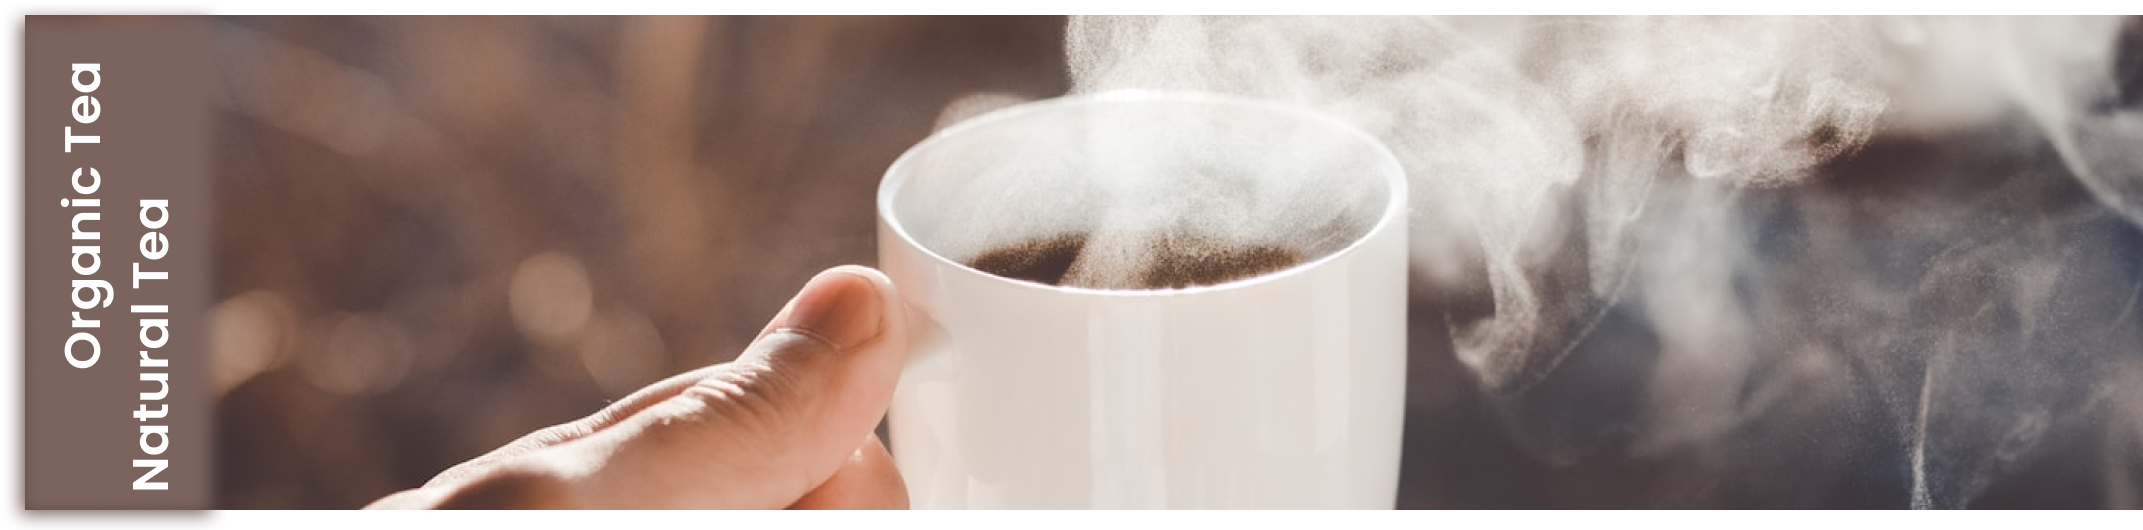
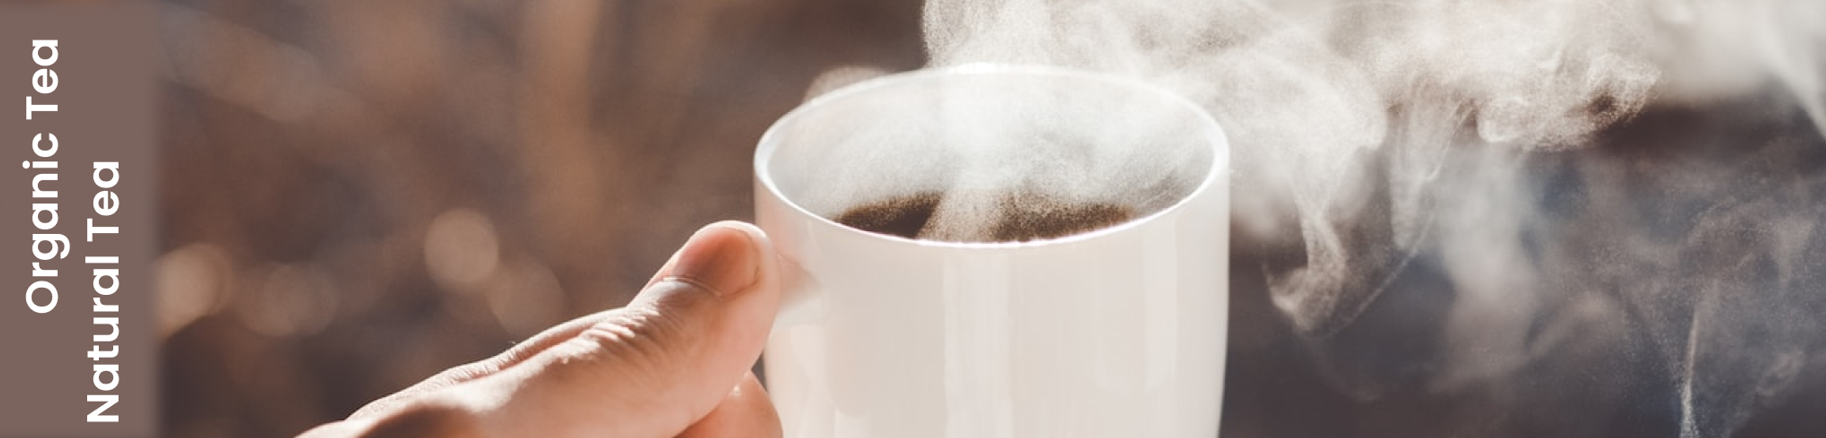
Updated with health & certifications page

diff --git a/client/src/components/contents/HealthCertificationsContent.jsx b/client/src/components/contents/HealthCertificationsContent.jsx
@@ -1,0 +1,34 @@
+import React from 'react'
+import { Container, Image } from 'react-bootstrap'
+import hcProductImage from '../../assets/h&cProductImage.png'
+import certificationProductImage from '../../assets/certificationProductImage.png'
+import CarouselHealthCertification from '../carousels/CarouselHealthCertification'
+
+
+function HealthCertificationsContent() {
+    return <>
+        <CarouselHealthCertification/>
+
+        <Container>
+
+            <div className='healthBlock'>
+                <Image src={hcProductImage} height={400}/>
+                <div>
+                    <h4>HEALTH SECRETS OF ORGANIC TEA</h4>
+                    <p>Discover the numerous health benefits of our naturally extracted teas. Rich in antioxidants, they help combat free radicals, promoting overall well-being. Our teas support a healthy immune system, enhancing your body's natural defenses. With natural ingredients, they aid in digestion and improve gut health. Regular consumption can help reduce stress and anxiety, contributing to mental clarity. Our teas also assist in weight management by boosting metabolism. Enjoy a cup daily to hydrate and rejuvenate your skin from within. Embrace the natural path to a healthier you with every sip.</p>
+                </div>
+            </div>
+
+            <div className='certificationBlock'>
+                <div>
+                    <h4>CERTIFICATIONS</h4>
+                    <p>Our commitment to quality is reflected in our array of certifications. Our teas are organically certified, ensuring no harmful pesticides or chemicals are used. We adhere to the highest standards of food safety, with HACCP and ISO certifications guaranteeing meticulous processing. Fair Trade certification highlights our dedication to ethical sourcing, supporting sustainable practices and fair wages for farmers. Our teas are also certified GMO-free, maintaining the purity of our natural ingredients. Additionally, our products are cruelty-free and vegan certified. Trust in our certified excellence for a pure and ethical tea experience.</p>
+                </div>
+                <Image src={certificationProductImage} height={400}/>
+            </div>
+
+        </Container>
+    </>
+}
+
+export default HealthCertificationsContent

diff --git a/client/src/components/contents/HomeContent.jsx b/client/src/components/contents/HomeContent.jsx
@@ -2,10 +2,10 @@ import React from 'react'
 import { Container, Image } from 'react-bootstrap'
 import { FontAwesomeIcon } from '@fortawesome/react-fontawesome'
 import { faBoxesPacking, faCartFlatbed, faFileLines, faGlobe, faMedal, faMobileScreenButton } from '@fortawesome/free-solid-svg-icons'
-import CarouselHome from './CarouselHome'
-import teaMakingStep1 from '../assets/teaMakingStep1.png'
-import teaMakingStep2 from '../assets/teaMakingStep2.png'
-import teaMakingStep3 from '../assets/teaMakingStep3.png'
+import CarouselHome from '../carousels/CarouselHome'
+import teaMakingStep1 from '../../assets/teaMakingStep1.png'
+import teaMakingStep2 from '../../assets/teaMakingStep2.png'
+import teaMakingStep3 from '../../assets/teaMakingStep3.png'
 
 function HomeContent() {
 

diff --git a/client/src/index.css b/client/src/index.css
@@ -46,7 +46,7 @@
 @media screen and (min-width : 768px){
     .carouselImage{
         width: 100%;
-        height: 20rem;
+        height: 25rem;
     }
     .homeTextContent{
         display: flex;
@@ -67,10 +67,12 @@
     }
 }
 
+/* About Us */
+
 @media screen and (min-width : 768px){
     .aboutImage{
         width: 100%;
-        height: 300px;
+        height: 25rem;
     }
     .aboutContent{
         display: flex;
@@ -83,5 +85,15 @@
     .aboutRightContent{
         margin-left: 25%;
         margin-top: 5%;
+    }
+}
+
+/* Health & Certifications */
+
+@media screen and (min-width : 768px){
+    .healthBlock, .certificationBlock{
+        display: flex;
+        justify-content: center;
+        align-items: center;
     }
 }

diff --git a/client/src/components/carousels/CarouselHealthCertification.jsx b/client/src/components/carousels/CarouselHealthCertification.jsx
@@ -1,0 +1,20 @@
+import React from 'react'
+import { Carousel, Image } from 'react-bootstrap'
+import CarouselHealth from '../../assets/CarouselHealth.png'
+import CarouselCertification from '../../assets/CarouselCertification.png'
+
+function CarouselHealthCertification() {
+
+    return <>
+        <Carousel>
+            <Carousel.Item interval={2000}>
+                <Image className='carouselImage' src={CarouselHealth}/>
+            </Carousel.Item>
+            <Carousel.Item interval={2000}>
+                <Image className='carouselImage' src={CarouselCertification}/>
+            </Carousel.Item>
+        </Carousel>
+    </>
+}
+
+export default CarouselHealthCertification

diff --git a/client/src/components/carousels/CarouselHome.jsx b/client/src/components/carousels/CarouselHome.jsx
@@ -1,9 +1,9 @@
 import React from 'react'
 import { Carousel, Image } from 'react-bootstrap'
-import CarouselOne from '../assets/CarouselOne.png'
-import CarouselTwo from '../assets/CarouselTwo.png'
-import CarouselThree from '../assets/CarouselThree.png'
-import CarouselFour from '../assets/CarouselFour.png'
+import CarouselOne from '../../assets/CarouselOne.png'
+import CarouselTwo from '../../assets/CarouselTwo.png'
+import CarouselThree from '../../assets/CarouselThree.png'
+import CarouselFour from '../../assets/CarouselFour.png'
 
 function CarouselHome() {
 

diff --git a/client/src/pages/navs/HealthCertifications.jsx b/client/src/pages/navs/HealthCertifications.jsx
@@ -1,14 +1,12 @@
 import React from 'react'
-import { Container } from 'react-bootstrap'
 import AppNavbar from '../../components/AppNavbar'
 import AppFooter from '../../components/AppFooter'
+import HealthCertificationsContent from '../../components/contents/HealthCertificationsContent'
 
 function HealthCertifications() {
   return <>
     <AppNavbar/>
-    <Container>
-        <div>Health & Certifications</div>
-    </Container>
+      <HealthCertificationsContent/>
     <AppFooter/>
   </>
 }

diff --git a/client/src/components/contents/AboutContent.jsx b/client/src/components/contents/AboutContent.jsx
@@ -1,7 +1,7 @@
 import React from 'react'
 import { Container, Image } from 'react-bootstrap'
-import aboutImage from '../assets/aboutImage.png'
-import aboutProductImage from '../assets/aboutProductImage.png'
+import aboutImage from '../../assets/aboutImage.png'
+import aboutProductImage from '../../assets/aboutProductImage.png'
 
 function AboutContent() {
     return <>

diff --git a/client/src/pages/navs/About.jsx b/client/src/pages/navs/About.jsx
@@ -1,7 +1,7 @@
 import React from 'react'
 import AppNavbar from '../../components/AppNavbar'
 import AppFooter from '../../components/AppFooter'
-import AboutContent from '../../components/AboutContent'
+import AboutContent from '../../components/contents/AboutContent'
 
 function About() {
     return <>

diff --git a/client/src/pages/navs/Home.jsx b/client/src/pages/navs/Home.jsx
@@ -1,7 +1,7 @@
 import React from 'react'
 import AppNavbar from '../../components/AppNavbar'
 import AppFooter from '../../components/AppFooter'
-import HomeContent from '../../components/HomeContent'
+import HomeContent from '../../components/contents/HomeContent'
 
 function Home() {
     return <>
